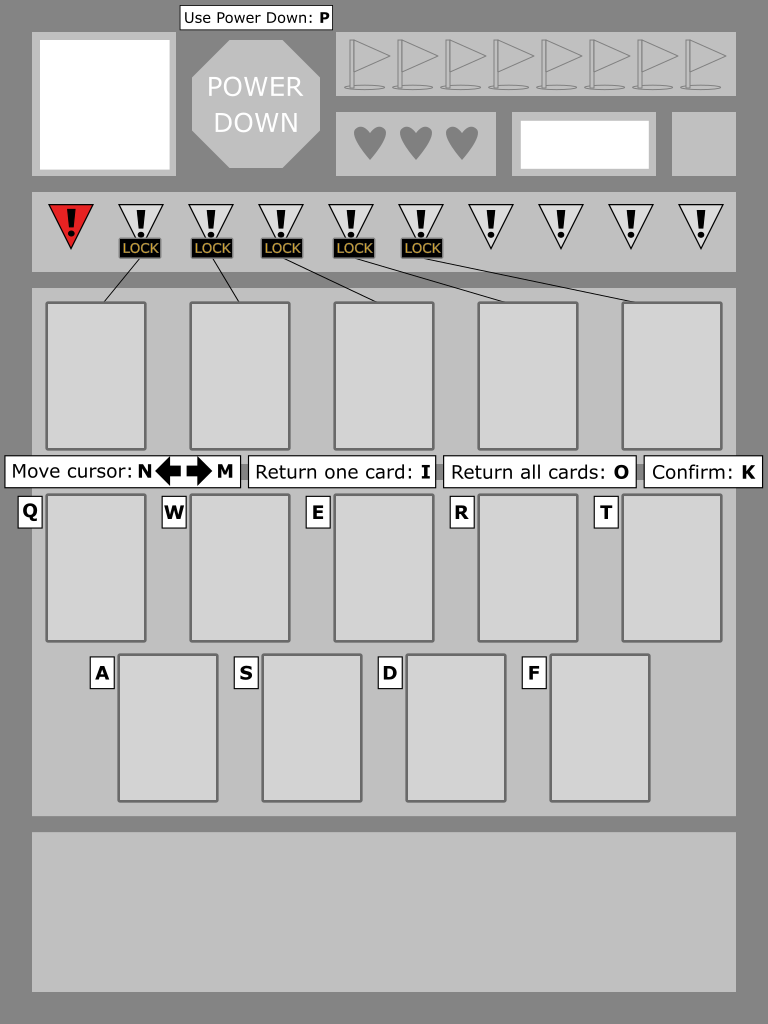
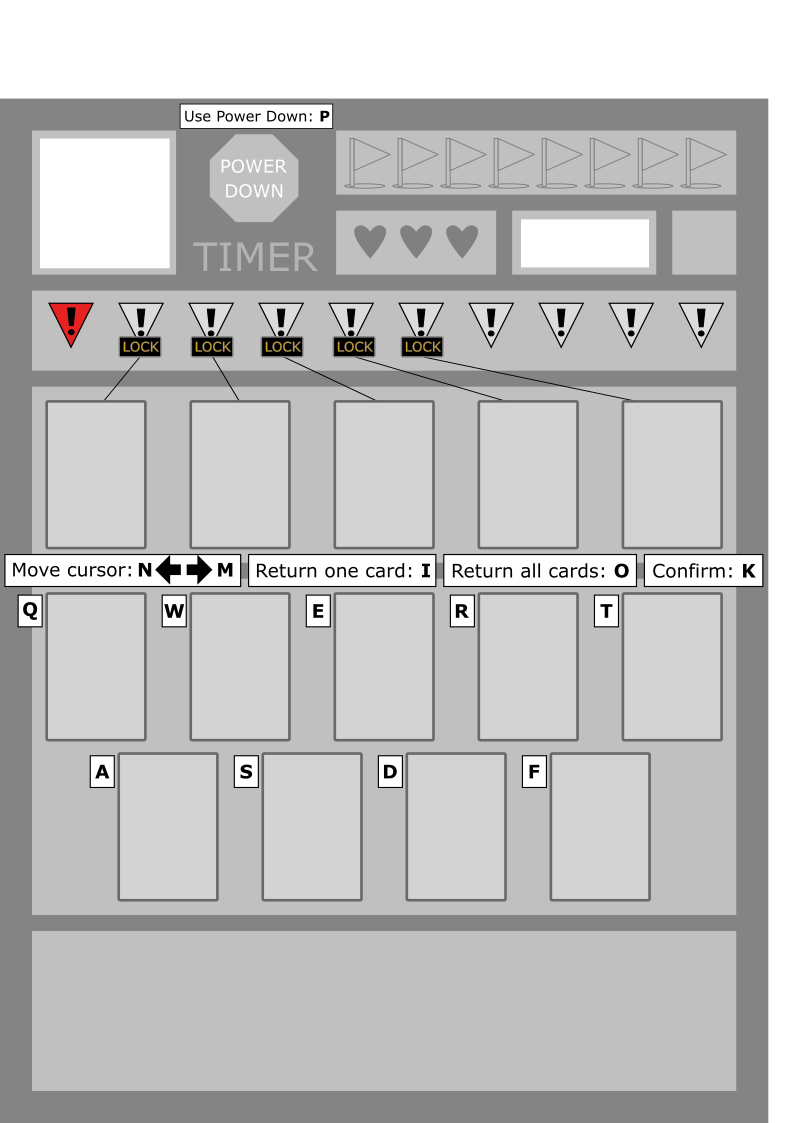
timer on interface side

diff --git a/server.py b/server.py
@@ -88,8 +88,11 @@ class Server:
         Maintain connection to the client until they disconnect.
         """
         async with self.ws_handler(request, self.ws_interfaces) as ws:
+            """
+            SERVER PART ONE: communicate only with this client
+            """
+
             # Get first data for connected client: robot and cards
-            # and assign it to client
             robot = self.assign_robot_to_client(ws)
 
             # Prepare message to send: robot name, game state and cards
@@ -99,11 +102,20 @@ class Server:
                                }
             # Send the message to the connected client
             await ws.send_json(welcome_message)
+            """
+            SERVER PART TWO: Process messages from this client
+            + Apply game effect = play the game round
+            """
 
-            # React to the sent state of this client and send new state to all
+            # React to the sent state of this client
             async for message in ws:
                 await self.process_message(message, robot)
-                await self.send_robots_state_to_all()
+
+                """
+                SERVER PART THREE: send updated state to all connected clients
+                + Send new cards to all interfaces
+                """
+                await self.send_state_to_all()
 
             return ws
 
@@ -152,17 +164,18 @@ class Server:
                 # If last robot doesnt selected his cards, the timer starts.
                 if selection_number == len(self.state.robots) - 1:
                     asyncio.create_task(self.timer(self.state.game_round))
+                    await self.send_message("timer_start")
             else:
                 await self.apply_effects()
 
-    async def send_robots_state_to_all(self):
+    async def send_state_to_all(self):
         """
-        Send message with robots' state to all connected clients.
+        Send message with game state to all connected clients.
         """
         ws_all = self.ws_receivers + self.ws_interfaces
         for client in ws_all:
             # send info about state
-            await client.send_json(self.state.robots_as_dict())
+            await client.send_json(self.state.whole_as_dict(map_name))
 
     async def timer(self, round):
         """
@@ -173,6 +186,7 @@ class Server:
         """
         game_round = round
         await asyncio.sleep(30)
+        await self.send_message("timer_end")
         all_selected = self.state.all_selected()
         if not all_selected:
             selection_number = self.state.selection_number()
@@ -200,8 +214,12 @@ class Server:
         for robot in self.state.robots:
             robot.clear_robot_attributes()
             robot.dealt_cards = self.state.get_dealt_cards(robot)
+        await self.send_message(self.state.cards_and_game_round_as_dict(robot.dealt_cards))
+
+    async def send_message(self, message):
+        for robot in self.state.robots:
             ws = self.assigned_robots[robot.name]
-            await ws.send_json(self.state.cards_and_game_round_as_dict(robot.dealt_cards))
+            await ws.send_json(message)
 
 
 # aiohttp.web application

diff --git a/interface_frontend.py b/interface_frontend.py
@@ -24,6 +24,8 @@ def get_sprite(img_path, x=0, y=0):
 # Interface background
 interface_sprite = get_sprite('img/interface/png/interface.png', x=0, y=0)
 power_down_sprite = get_sprite('img/interface/png/power.png', x=186, y=854)
+# Timer
+timer_sprite = get_sprite('img/interface/png/timer_on.png', x=193, y=853)
 # Time indicator
 indicator_green_sprite = get_sprite('img/interface/png/green.png', x=688, y=864)
 # Time indicator
@@ -260,6 +262,9 @@ def draw_interface(interface_state, window):
     if interface_state.power_down:
         power_down_sprite.draw()
 
+    # Timer
+    if interface_state.timer:
+        timer_sprite.draw()
     # Indicator
     if not interface_state.selection_confirmed:
         indicator_green_sprite.draw()

diff --git a/client_interface.py b/client_interface.py
@@ -69,6 +69,12 @@ class Interface:
                         self.set_robots(message, robot_name)
                     if "cards" in message:
                         self.set_dealt_cards(message)
+                        self.state.timer = False
+                    if "timer_start" in message:
+                        self.state.timer = True
+                    if "timer_end" in message:
+                        self.state.timer = False
+                        self.state.selection_confirmed = True
         self.ws = None
 
     def set_game_state(self, message, robot_name):

diff --git a/interface.py b/interface.py
@@ -8,6 +8,7 @@ class InterfaceState:
         self.cursor_index = 0  # 0-4 number of positon
         self.players = []
         self.my_game_round = None
+        self.timer = False
 
     def __repr__(self):
         return f"InterfaceState \
